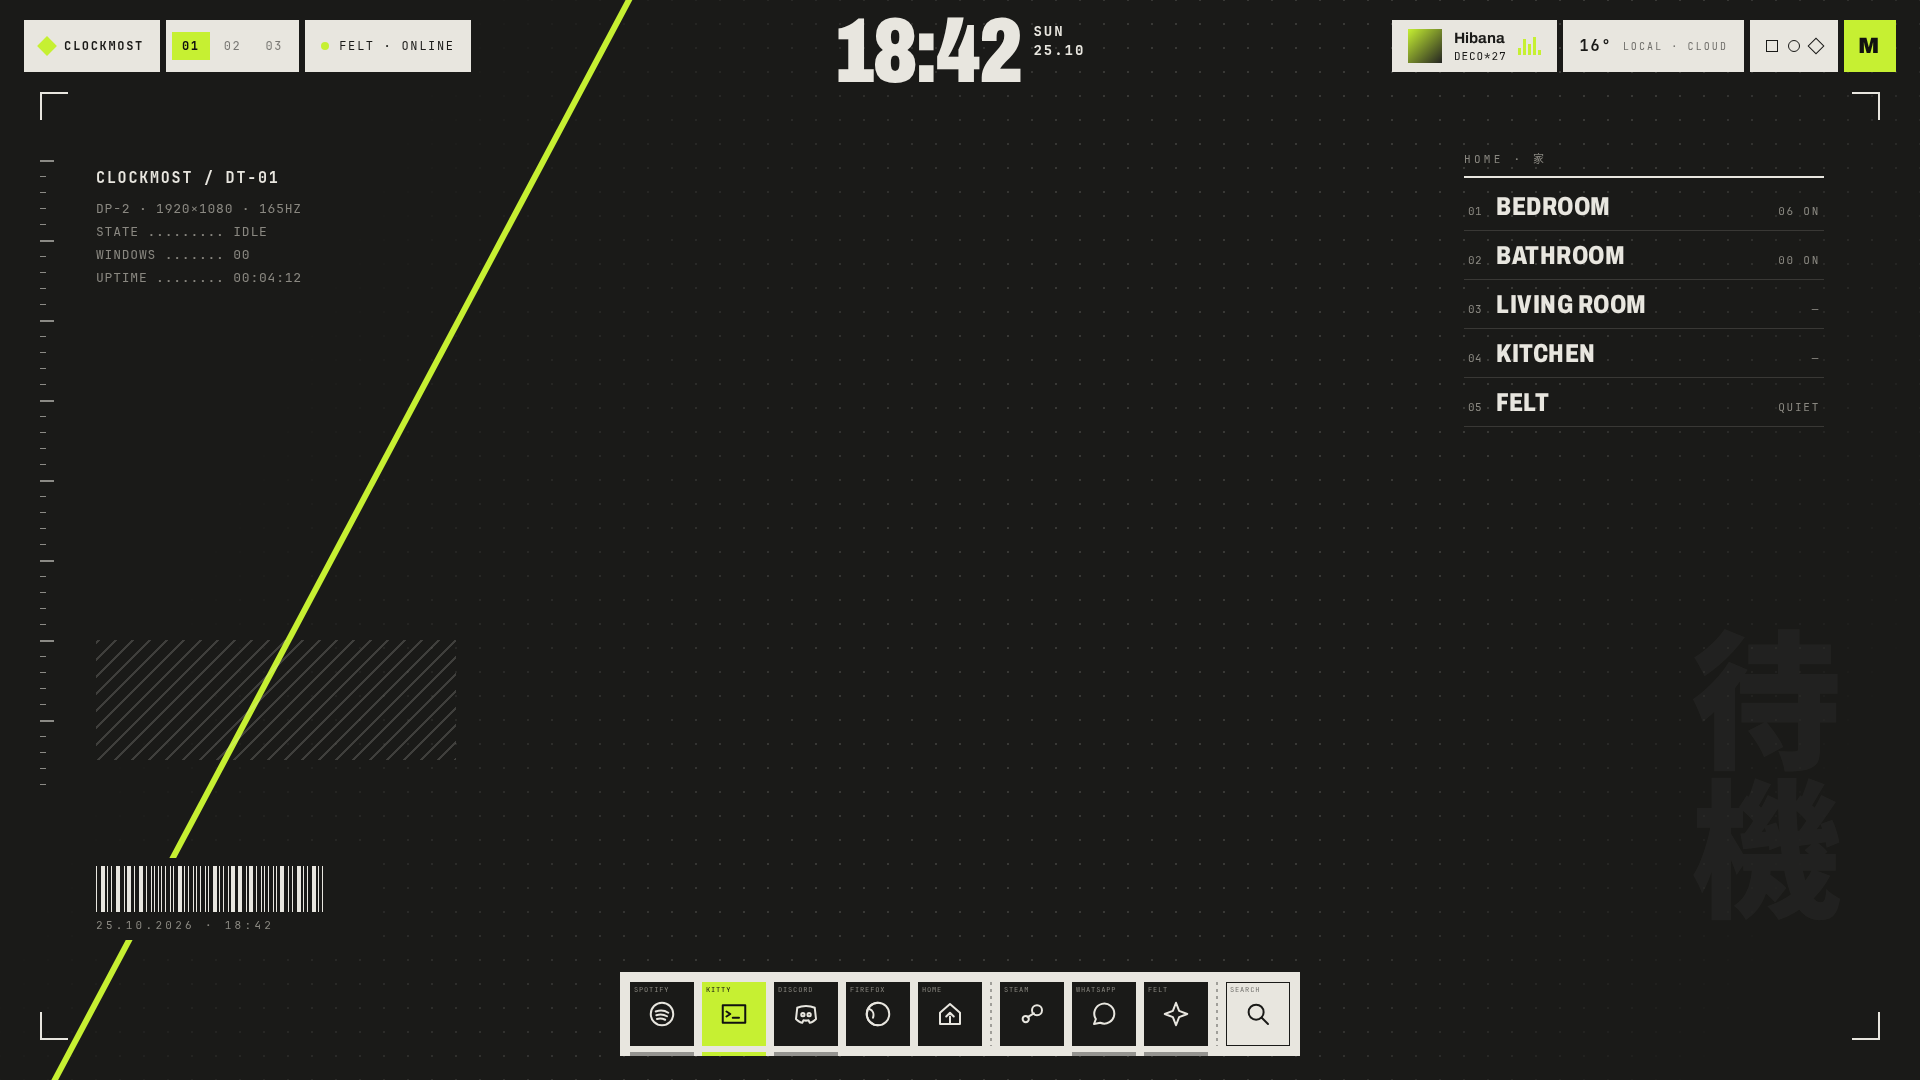
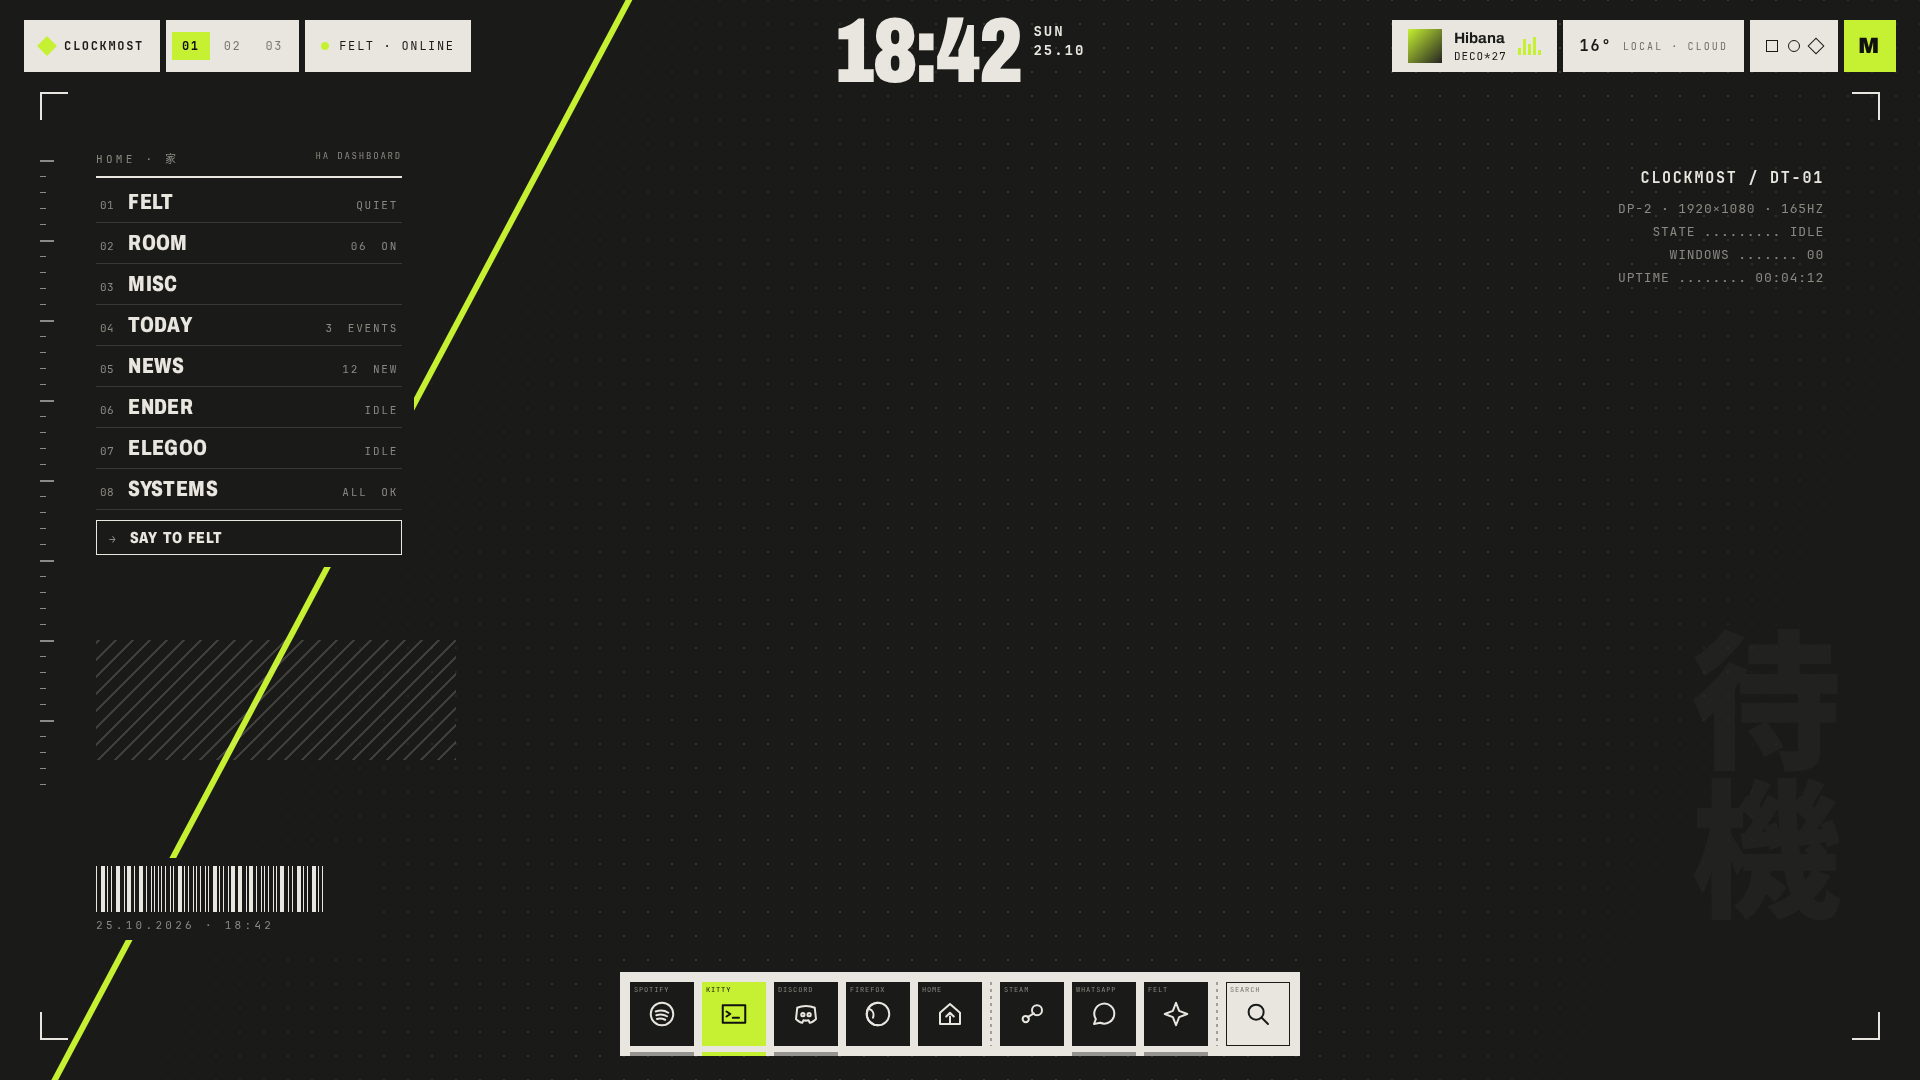
design: v2 round 4 - HA list on the left with the real dashboard sections, section opens beside it, back button
Claude-Session: https://claude.ai/code/session_01TfCpBtvRHaocFGh62LwrkG

diff --git a/design/v2-2026-10-25/idle.html b/design/v2-2026-10-25/idle.html
@@ -41,17 +41,22 @@
 
       <!-- Home Assistant: a list of sections; clicking one shifts the desktop to show it (?ha=bedroom) -->
       <nav class="ha-list">
-        <span class="ha-title">HOME &middot; 家</span>
-        <a data-sec="bedroom"><i>01</i>BEDROOM<em>06 ON</em></a>
-        <a data-sec="bathroom"><i>02</i>BATHROOM<em>00 ON</em></a>
-        <a data-sec="living"><i>03</i>LIVING ROOM<em>&mdash;</em></a>
-        <a data-sec="kitchen"><i>04</i>KITCHEN<em>&mdash;</em></a>
-        <a data-sec="felt"><i>05</i>FELT<em>QUIET</em></a>
+        <span class="ha-title">HOME &middot; 家 <small>HA DASHBOARD</small></span>
+        <a data-sec="felt"><i>01</i>FELT<em>QUIET</em></a>
+        <a data-sec="room"><i>02</i>ROOM<em>06 ON</em></a>
+        <a data-sec="misc"><i>03</i>MISC<em></em></a>
+        <a data-sec="today"><i>04</i>TODAY<em>3 EVENTS</em></a>
+        <a data-sec="news"><i>05</i>NEWS<em>12 NEW</em></a>
+        <a data-sec="ender"><i>06</i>ENDER<em>IDLE</em></a>
+        <a data-sec="elegoo"><i>07</i>ELEGOO<em>IDLE</em></a>
+        <a data-sec="systems"><i>08</i>SYSTEMS<em>ALL OK</em></a>
+        <a data-sec="say" class="say"><i>&rarr;</i>SAY TO FELT</a>
       </nav>
 
       <section class="ha-sec">
         <header class="ha-head">
-          <b>BEDROOM</b><span class="jp">寝室</span>
+          <button class="ha-back">&larr; BACK</button>
+          <b>ROOM</b><span class="jp">寝室</span>
           <em>06 / 07 ON</em>
         </header>
         <div class="plan">

diff --git a/design/v2-2026-10-25/ha.css b/design/v2-2026-10-25/ha.css
@@ -286,3 +286,62 @@
   z-index: -1;
   border-right: 2px solid var(--acc);
 }
+
+/* round 4 (Mario: ultrawide - keep the mouse short): list on the left, section opens right next to it */
+.ha-list {
+  left: 96px;
+  right: auto;
+  width: 330px;
+}
+.ha-title small {
+  float: right;
+  font-size: 9px;
+  letter-spacing: 0.2em;
+}
+.ha-list a {
+  font-size: 22px;
+  padding: 8px 4px;
+}
+.ha-list a.say {
+  margin-top: 10px;
+  border: 1.5px solid var(--ink);
+  padding-left: 12px;
+  font-size: 16px;
+}
+.ha-sec {
+  left: 470px;
+}
+.stage[data-ha] .ground {
+  transform: translateX(560px);
+}
+.stage[data-ha] .ha-sec::before {
+  left: -30px;
+  width: 590px;
+  border-left: 2px solid var(--acc);
+  border-right: none;
+}
+.ha-back {
+  font-family: "JetBrains Mono", monospace;
+  font-size: 11px;
+  letter-spacing: 0.16em;
+  padding: 6px 10px;
+  background: var(--ink);
+  color: var(--bg);
+  border: 0;
+  align-self: center;
+  cursor: pointer;
+}
+/* ground: spec moves right (the list took its place) */
+.spec {
+  left: auto;
+  right: 96px;
+  align-items: flex-end;
+}
+.ha-list {
+  background: var(--bg);
+  padding: 0 12px 12px;
+  margin-left: -12px;
+}
+.ha-list a {
+  word-spacing: 0.25em;
+}
